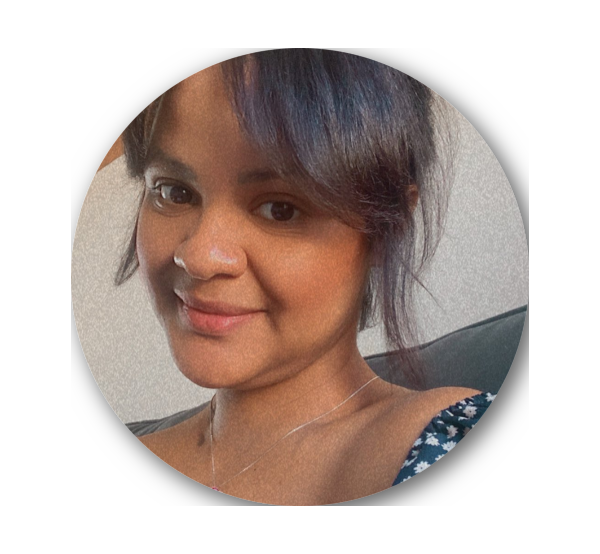
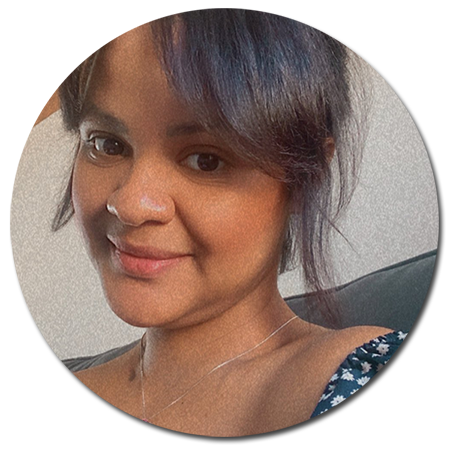
add img

diff --git a/index.html b/index.html
@@ -22,7 +22,10 @@
     <main>
         <section>
             <h1>Quem sou Eu</h1>
-            <img src="imagens/perfil-g.png" alt="foto ana bertholdo">
+            <picture>
+                <source media="(max-width: 650px)" srcset="imagens/perfil-p.png" type="image/png">
+                <img src="imagens/perfil-g.png" alt="imagem flexivel">
+            </picture>
             <p>Lorem ipsum dolor sit amet consectetur adipisicing elit. Dolorum voluptatum voluptatem ipsum eum sequi non expedita odio! Aliquam numquam quod quidem quaerat sit nesciunt dolor, cupiditate corporis saepe excepturi magnam. Lorem ipsum dolor sit amet consectetur adipisicing elit. Porro corrupti autem, dolores totam accusamus est velit dignissimos molestias obcaecati reiciendis qui unde dolore magni voluptate iusto sit nesciunt. Eius, accusantium.</p>
         </section>
     </main>

diff --git a/estilo/style.css b/estilo/style.css
@@ -102,10 +102,11 @@ section > p {
     line-height: 1.5em;
 }
 
-section > img {
+section > picture  {
     padding-top: 20px;
     display: block;
-    margin: auto;
+    text-align: center;
+    width: 100%;
 }
 
 footer {
